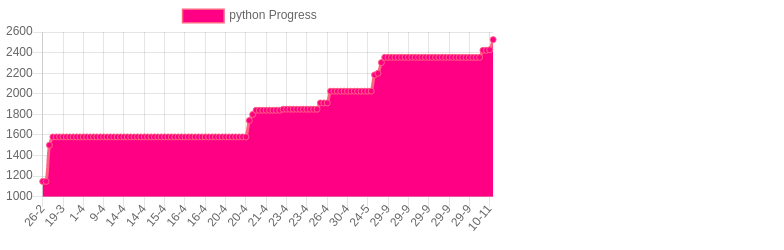
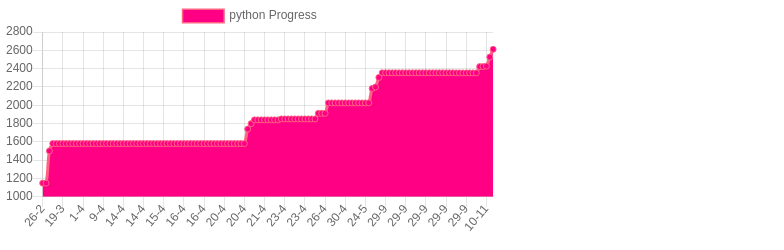
django login example

diff --git a/total.html b/total.html
@@ -9,7 +9,7 @@
         <script src="https://cdn.jsdelivr.net/npm/chart.js@2.8.0"></script>
         <script>
           var ctx = document.getElementById("total").getContext("2d");
-          const goLabelsDates = ["2021-02-27T01:37:43.112Z","2021-02-27T01:38:01.628Z","2021-03-01T13:41:18.753Z","2021-03-01T14:53:41.991Z","2021-03-01T15:08:00.851Z","2021-03-01T15:09:10.635Z","2021-03-01T15:22:55.385Z","2021-03-03T15:31:41.151Z","2021-03-05T14:02:13.446Z","2021-03-10T14:50:13.297Z","2021-03-11T01:54:03.424Z","2021-03-11T15:32:47.647Z","2021-03-11T16:01:51.191Z","2021-03-12T00:36:04.646Z","2021-03-13T00:14:58.179Z","2021-03-16T05:30:04.043Z","2021-03-17T21:17:52.181Z","2021-03-18T03:42:56.998Z","2021-03-18T03:44:29.834Z","2021-03-18T03:45:35.160Z","2021-03-18T03:45:54.668Z","2021-03-18T03:48:46.007Z","2021-03-18T05:10:54.427Z","2021-03-18T05:44:13.724Z","2021-03-18T05:56:11.032Z","2021-03-18T22:11:28.339Z","2021-03-19T11:28:55.383Z","2021-03-22T13:51:43.977Z","2021-03-23T01:52:09.452Z","2021-03-23T15:45:53.765Z","2021-03-24T01:46:02.104Z","2021-03-30T10:56:50.711Z","2021-04-01T15:03:17.764Z","2021-04-01T23:15:02.096Z","2021-04-07T19:21:55.040Z","2021-04-08T15:21:14.479Z","2021-04-09T23:17:58.037Z","2021-04-09T23:32:26.341Z","2021-04-09T23:34:42.049Z","2021-04-09T23:36:18.092Z","2021-04-10T01:45:40.218Z","2021-04-12T15:41:26.676Z","2021-04-14T02:00:41.039Z","2021-04-14T20:02:44.141Z","2021-04-14T21:14:15.821Z","2021-04-14T22:06:37.573Z","2021-04-14T22:42:14.693Z","2021-04-14T23:10:13.243Z","2021-04-14T23:22:54.824Z","2021-04-14T23:49:37.009Z","2021-04-15T02:28:51.974Z","2021-04-15T14:33:50.618Z","2021-04-15T15:09:11.104Z","2021-04-15T20:35:30.580Z","2021-04-16T00:04:33.158Z","2021-04-16T01:36:06.294Z","2021-04-16T01:53:35.992Z","2021-04-16T02:00:15.474Z","2021-04-16T16:08:40.977Z","2021-04-16T16:27:06.953Z","2021-04-16T16:59:30.526Z","2021-04-16T17:00:53.737Z","2021-04-16T23:14:36.283Z","2021-04-17T00:39:16.890Z","2021-04-17T01:11:09.986Z","2021-04-17T01:32:30.011Z","2021-04-17T01:44:22.446Z","2021-04-17T01:44:33.941Z","2021-04-17T02:35:55.774Z","2021-04-19T15:41:31.091Z","2021-04-20T15:32:32.239Z","2021-04-20T15:33:16.014Z","2021-04-20T15:36:11.438Z","2021-04-20T15:38:44.606Z","2021-04-20T15:41:50.350Z","2021-04-20T15:44:34.448Z","2021-04-20T15:46:49.295Z","2021-04-20T15:47:24.048Z","2021-04-20T15:56:22.046Z","2021-04-20T16:00:02.540Z","2021-04-20T16:01:15.511Z","2021-04-20T23:19:23.938Z","2021-04-21T00:40:54.443Z","2021-04-21T00:47:22.662Z","2021-04-21T02:01:09.006Z","2021-04-21T02:19:22.734Z","2021-04-21T15:53:36.038Z","2021-04-21T16:21:45.704Z","2021-04-21T16:26:32.790Z","2021-04-21T16:40:24.916Z","2021-04-21T16:43:40.235Z","2021-04-21T16:43:59.719Z","2021-04-21T16:44:40.304Z","2021-04-21T16:46:13.191Z","2021-04-21T16:48:41.898Z","2021-04-21T16:49:08.753Z","2021-04-21T16:50:32.397Z","2021-04-21T16:51:58.778Z","2021-04-23T00:49:32.826Z","2021-04-23T15:03:06.320Z","2021-04-23T15:04:13.039Z","2021-04-23T15:05:25.923Z","2021-04-23T15:11:04.285Z","2021-04-23T15:11:38.826Z","2021-04-23T15:12:05.618Z","2021-04-23T15:12:32.508Z","2021-04-23T15:13:17.058Z","2021-04-23T17:08:27.046Z","2021-04-23T18:02:30.357Z","2021-04-23T22:58:36.946Z","2021-04-23T23:00:26.027Z","2021-04-23T23:52:58.438Z","2021-04-24T01:12:51.525Z","2021-04-24T02:01:46.612Z","2021-04-26T12:46:47.336Z","2021-04-26T13:13:50.946Z","2021-04-26T13:16:04.473Z","2021-04-27T00:11:42.582Z","2021-04-30T03:26:37.101Z","2021-04-30T04:33:42.472Z","2021-04-30T05:15:42.646Z","2021-04-30T14:31:10.927Z","2021-05-04T01:51:49.907Z","2021-05-21T00:30:21.777Z","2021-05-24T15:07:09.579Z","2021-05-24T15:08:05.658Z","2021-05-24T15:22:20.903Z","2021-05-24T15:33:34.626Z","2021-05-24T15:46:16.101Z","2021-05-24T15:48:12.171Z","2021-05-24T15:53:54.498Z","2021-05-24T15:56:18.488Z","2021-05-28T22:50:32.914Z","2021-06-02T17:58:30.866Z","2021-07-01T05:04:25.826Z","2021-07-01T05:05:33.079Z","2021-09-03T16:56:54.023Z","2021-09-23T00:10:19.737Z","2021-09-23T00:54:30.987Z","2021-09-25T00:13:33.106Z","2021-09-25T00:56:09.874Z","2021-09-29T20:37:10.460Z","2021-09-29T20:39:45.107Z","2021-09-29T20:45:08.406Z","2021-09-29T20:45:42.995Z","2021-09-29T20:51:54.166Z","2021-09-29T21:04:45.487Z","2021-09-29T21:22:49.580Z","2021-09-29T21:23:34.860Z","2021-09-29T21:24:52.804Z","2021-09-29T21:25:12.938Z","2021-09-29T21:31:41.466Z","2021-09-29T21:32:02.856Z","2021-09-29T21:32:15.096Z","2021-09-29T21:37:01.273Z","2021-09-29T21:39:46.109Z","2021-09-29T21:40:23.862Z","2021-09-29T21:41:38.242Z","2021-09-29T21:45:36.053Z","2021-09-29T21:48:31.229Z","2021-09-29T21:49:46.414Z","2021-09-29T21:50:16.628Z","2021-09-29T21:52:23.035Z","2021-09-29T21:58:46.153Z","2021-09-29T21:59:06.075Z","2021-09-29T22:09:34.545Z","2021-09-29T22:24:59.487Z","2021-09-29T22:39:38.616Z","2021-09-29T23:07:40.178Z","2021-10-01T13:21:48.217Z","2021-10-01T14:11:47.682Z","2021-10-05T00:24:42.303Z","2021-10-05T14:36:34.233Z","2021-10-05T15:30:47.628Z","2021-10-13T14:16:32.194Z","2021-10-14T20:31:14.540Z","2021-10-15T02:04:50.667Z","2021-10-22T22:01:46.214Z","2021-10-26T00:04:54.365Z","2021-10-26T00:05:44.432Z","2021-10-26T13:52:24.065Z","2021-10-26T14:08:20.572Z","2021-11-11T01:24:39.296Z","2021-11-11T02:12:58.681Z",];
+          const goLabelsDates = ["2021-02-27T01:37:43.112Z","2021-02-27T01:38:01.628Z","2021-03-01T13:41:18.753Z","2021-03-01T14:53:41.991Z","2021-03-01T15:08:00.851Z","2021-03-01T15:09:10.635Z","2021-03-01T15:22:55.385Z","2021-03-03T15:31:41.151Z","2021-03-05T14:02:13.446Z","2021-03-10T14:50:13.297Z","2021-03-11T01:54:03.424Z","2021-03-11T15:32:47.647Z","2021-03-11T16:01:51.191Z","2021-03-12T00:36:04.646Z","2021-03-13T00:14:58.179Z","2021-03-16T05:30:04.043Z","2021-03-17T21:17:52.181Z","2021-03-18T03:42:56.998Z","2021-03-18T03:44:29.834Z","2021-03-18T03:45:35.160Z","2021-03-18T03:45:54.668Z","2021-03-18T03:48:46.007Z","2021-03-18T05:10:54.427Z","2021-03-18T05:44:13.724Z","2021-03-18T05:56:11.032Z","2021-03-18T22:11:28.339Z","2021-03-19T11:28:55.383Z","2021-03-22T13:51:43.977Z","2021-03-23T01:52:09.452Z","2021-03-23T15:45:53.765Z","2021-03-24T01:46:02.104Z","2021-03-30T10:56:50.711Z","2021-04-01T15:03:17.764Z","2021-04-01T23:15:02.096Z","2021-04-07T19:21:55.040Z","2021-04-08T15:21:14.479Z","2021-04-09T23:17:58.037Z","2021-04-09T23:32:26.341Z","2021-04-09T23:34:42.049Z","2021-04-09T23:36:18.092Z","2021-04-10T01:45:40.218Z","2021-04-12T15:41:26.676Z","2021-04-14T02:00:41.039Z","2021-04-14T20:02:44.141Z","2021-04-14T21:14:15.821Z","2021-04-14T22:06:37.573Z","2021-04-14T22:42:14.693Z","2021-04-14T23:10:13.243Z","2021-04-14T23:22:54.824Z","2021-04-14T23:49:37.009Z","2021-04-15T02:28:51.974Z","2021-04-15T14:33:50.618Z","2021-04-15T15:09:11.104Z","2021-04-15T20:35:30.580Z","2021-04-16T00:04:33.158Z","2021-04-16T01:36:06.294Z","2021-04-16T01:53:35.992Z","2021-04-16T02:00:15.474Z","2021-04-16T16:08:40.977Z","2021-04-16T16:27:06.953Z","2021-04-16T16:59:30.526Z","2021-04-16T17:00:53.737Z","2021-04-16T23:14:36.283Z","2021-04-17T00:39:16.890Z","2021-04-17T01:11:09.986Z","2021-04-17T01:32:30.011Z","2021-04-17T01:44:22.446Z","2021-04-17T01:44:33.941Z","2021-04-17T02:35:55.774Z","2021-04-19T15:41:31.091Z","2021-04-20T15:32:32.239Z","2021-04-20T15:33:16.014Z","2021-04-20T15:36:11.438Z","2021-04-20T15:38:44.606Z","2021-04-20T15:41:50.350Z","2021-04-20T15:44:34.448Z","2021-04-20T15:46:49.295Z","2021-04-20T15:47:24.048Z","2021-04-20T15:56:22.046Z","2021-04-20T16:00:02.540Z","2021-04-20T16:01:15.511Z","2021-04-20T23:19:23.938Z","2021-04-21T00:40:54.443Z","2021-04-21T00:47:22.662Z","2021-04-21T02:01:09.006Z","2021-04-21T02:19:22.734Z","2021-04-21T15:53:36.038Z","2021-04-21T16:21:45.704Z","2021-04-21T16:26:32.790Z","2021-04-21T16:40:24.916Z","2021-04-21T16:43:40.235Z","2021-04-21T16:43:59.719Z","2021-04-21T16:44:40.304Z","2021-04-21T16:46:13.191Z","2021-04-21T16:48:41.898Z","2021-04-21T16:49:08.753Z","2021-04-21T16:50:32.397Z","2021-04-21T16:51:58.778Z","2021-04-23T00:49:32.826Z","2021-04-23T15:03:06.320Z","2021-04-23T15:04:13.039Z","2021-04-23T15:05:25.923Z","2021-04-23T15:11:04.285Z","2021-04-23T15:11:38.826Z","2021-04-23T15:12:05.618Z","2021-04-23T15:12:32.508Z","2021-04-23T15:13:17.058Z","2021-04-23T17:08:27.046Z","2021-04-23T18:02:30.357Z","2021-04-23T22:58:36.946Z","2021-04-23T23:00:26.027Z","2021-04-23T23:52:58.438Z","2021-04-24T01:12:51.525Z","2021-04-24T02:01:46.612Z","2021-04-26T12:46:47.336Z","2021-04-26T13:13:50.946Z","2021-04-26T13:16:04.473Z","2021-04-27T00:11:42.582Z","2021-04-30T03:26:37.101Z","2021-04-30T04:33:42.472Z","2021-04-30T05:15:42.646Z","2021-04-30T14:31:10.927Z","2021-05-04T01:51:49.907Z","2021-05-21T00:30:21.777Z","2021-05-24T15:07:09.579Z","2021-05-24T15:08:05.658Z","2021-05-24T15:22:20.903Z","2021-05-24T15:33:34.626Z","2021-05-24T15:46:16.101Z","2021-05-24T15:48:12.171Z","2021-05-24T15:53:54.498Z","2021-05-24T15:56:18.488Z","2021-05-28T22:50:32.914Z","2021-06-02T17:58:30.866Z","2021-07-01T05:04:25.826Z","2021-07-01T05:05:33.079Z","2021-09-03T16:56:54.023Z","2021-09-23T00:10:19.737Z","2021-09-23T00:54:30.987Z","2021-09-25T00:13:33.106Z","2021-09-25T00:56:09.874Z","2021-09-29T20:37:10.460Z","2021-09-29T20:39:45.107Z","2021-09-29T20:45:08.406Z","2021-09-29T20:45:42.995Z","2021-09-29T20:51:54.166Z","2021-09-29T21:04:45.487Z","2021-09-29T21:22:49.580Z","2021-09-29T21:23:34.860Z","2021-09-29T21:24:52.804Z","2021-09-29T21:25:12.938Z","2021-09-29T21:31:41.466Z","2021-09-29T21:32:02.856Z","2021-09-29T21:32:15.096Z","2021-09-29T21:37:01.273Z","2021-09-29T21:39:46.109Z","2021-09-29T21:40:23.862Z","2021-09-29T21:41:38.242Z","2021-09-29T21:45:36.053Z","2021-09-29T21:48:31.229Z","2021-09-29T21:49:46.414Z","2021-09-29T21:50:16.628Z","2021-09-29T21:52:23.035Z","2021-09-29T21:58:46.153Z","2021-09-29T21:59:06.075Z","2021-09-29T22:09:34.545Z","2021-09-29T22:24:59.487Z","2021-09-29T22:39:38.616Z","2021-09-29T23:07:40.178Z","2021-10-01T13:21:48.217Z","2021-10-01T14:11:47.682Z","2021-10-05T00:24:42.303Z","2021-10-05T14:36:34.233Z","2021-10-05T15:30:47.628Z","2021-10-13T14:16:32.194Z","2021-10-14T20:31:14.540Z","2021-10-15T02:04:50.667Z","2021-10-22T22:01:46.214Z","2021-10-26T00:04:54.365Z","2021-10-26T00:05:44.432Z","2021-10-26T13:52:24.065Z","2021-10-26T14:08:20.572Z","2021-11-11T01:24:39.296Z","2021-11-11T02:12:58.681Z","2021-11-11T03:09:01.800Z",];
           var chart = new Chart(ctx, {
             type: 'line',
             data: {
@@ -18,7 +18,7 @@
                 label: 'total Progress',
                 backgroundColor: 'rgb(255, 0, 132)',
                 borderColor: 'rgb(255, 99, 132)',
-                data: [7975,7975,8307,8526,8526,8527,8573,9171,9358,9751,9908,10232,10231,10643,10911,11353,12576,12666,0,0,169,12835,12906,12953,12953,13141,13254,13354,13406,13417,13568,13708,13845,14886,15140,15267,15766,15777,15777,15777,16211,16345,17062,17247,17324,17464,17697,17849,17916,18002,18002,18202,18292,18515,18590,18744,18837,18876,19030,19086,19114,19143,19378,19465,19607,19714,19782,19782,19791,20220,20257,20257,20257,20257,20257,20257,20257,20257,20257,20257,20257,21179,21238,21279,21319,21319,21430,21506,21543,65995,0,44452,44452,44452,20233,20233,1629,23172,23326,23693,23693,23693,23693,23693,23693,23693,23693,23693,23693,23693,23693,23905,24023,24262,24275,24376,24376,24452,25078,25182,25238,25232,25233,25334,23696,25427,25453,25466,25491,11565,5707,5707,4421,4535,4535,3678,3678,3678,5861,5318,5422,5473,12667,12667,12667,12667,12667,12667,12667,12667,12667,12667,12667,12667,12667,12667,12667,12667,12667,12667,12658,12658,12657,12657,12657,12657,12683,12736,12779,12888,2619,2775,9772,9922,10674,1795,1824,2002,2000,422,468,543,2427,2526,]
+                data: [7975,7975,8307,8526,8526,8527,8573,9171,9358,9751,9908,10232,10231,10643,10911,11353,12576,12666,0,0,169,12835,12906,12953,12953,13141,13254,13354,13406,13417,13568,13708,13845,14886,15140,15267,15766,15777,15777,15777,16211,16345,17062,17247,17324,17464,17697,17849,17916,18002,18002,18202,18292,18515,18590,18744,18837,18876,19030,19086,19114,19143,19378,19465,19607,19714,19782,19782,19791,20220,20257,20257,20257,20257,20257,20257,20257,20257,20257,20257,20257,21179,21238,21279,21319,21319,21430,21506,21543,65995,0,44452,44452,44452,20233,20233,1629,23172,23326,23693,23693,23693,23693,23693,23693,23693,23693,23693,23693,23693,23693,23905,24023,24262,24275,24376,24376,24452,25078,25182,25238,25232,25233,25334,23696,25427,25453,25466,25491,11565,5707,5707,4421,4535,4535,3678,3678,3678,5861,5318,5422,5473,12667,12667,12667,12667,12667,12667,12667,12667,12667,12667,12667,12667,12667,12667,12667,12667,12667,12667,12658,12658,12657,12657,12657,12657,12683,12736,12779,12888,2619,2775,9772,9922,10674,1795,1824,2002,2000,422,468,543,2427,2526,2611,]
               }]
             },
           });

diff --git a/python.html b/python.html
@@ -9,7 +9,7 @@
         <script src="https://cdn.jsdelivr.net/npm/chart.js@2.8.0"></script>
         <script>
           var ctx = document.getElementById("python").getContext("2d");
-          const goLabelsDates = ["2021-02-27T01:37:43.111Z","2021-02-27T01:38:01.627Z","2021-03-03T15:31:41.151Z","2021-03-18T05:44:13.724Z","2021-03-18T05:56:11.032Z","2021-03-18T22:11:28.339Z","2021-03-19T11:28:55.382Z","2021-03-22T13:51:43.976Z","2021-03-23T01:52:09.451Z","2021-03-23T15:45:53.764Z","2021-03-24T01:46:02.103Z","2021-03-30T10:56:50.710Z","2021-04-01T15:03:17.763Z","2021-04-01T23:15:02.095Z","2021-04-07T19:21:55.039Z","2021-04-08T15:21:14.478Z","2021-04-09T23:17:58.036Z","2021-04-09T23:32:26.340Z","2021-04-09T23:34:42.048Z","2021-04-09T23:36:18.091Z","2021-04-10T01:45:40.217Z","2021-04-12T15:41:26.675Z","2021-04-14T02:00:41.039Z","2021-04-14T20:02:44.140Z","2021-04-14T21:14:15.820Z","2021-04-14T22:06:37.573Z","2021-04-14T22:42:14.693Z","2021-04-14T23:10:13.242Z","2021-04-14T23:22:54.823Z","2021-04-14T23:49:37.009Z","2021-04-15T02:28:51.973Z","2021-04-15T14:33:50.618Z","2021-04-15T15:09:11.102Z","2021-04-15T20:35:30.579Z","2021-04-16T00:04:33.157Z","2021-04-16T01:36:06.293Z","2021-04-16T01:53:35.991Z","2021-04-16T02:00:15.473Z","2021-04-16T16:08:40.976Z","2021-04-16T16:27:06.952Z","2021-04-16T16:59:30.524Z","2021-04-16T17:00:53.733Z","2021-04-16T23:14:36.282Z","2021-04-17T00:39:16.888Z","2021-04-17T01:11:09.985Z","2021-04-17T01:32:30.008Z","2021-04-17T01:44:22.444Z","2021-04-17T01:44:33.940Z","2021-04-17T02:35:55.773Z","2021-04-19T15:41:31.090Z","2021-04-20T15:32:32.238Z","2021-04-20T15:33:16.013Z","2021-04-20T15:36:11.438Z","2021-04-20T15:38:44.605Z","2021-04-20T15:41:50.349Z","2021-04-20T15:44:34.447Z","2021-04-20T15:46:49.294Z","2021-04-20T15:47:24.047Z","2021-04-20T15:56:22.045Z","2021-04-20T16:00:02.539Z","2021-04-20T16:01:15.511Z","2021-04-20T23:19:23.937Z","2021-04-21T00:40:54.442Z","2021-04-21T00:47:22.661Z","2021-04-21T02:01:09.005Z","2021-04-21T02:19:22.733Z","2021-04-21T15:53:36.037Z","2021-04-21T16:21:45.703Z","2021-04-21T16:26:32.789Z","2021-04-21T16:40:24.916Z","2021-04-21T16:51:58.777Z","2021-04-23T00:49:32.825Z","2021-04-23T15:03:06.327Z","2021-04-23T15:04:13.044Z","2021-04-23T15:05:25.923Z","2021-04-23T15:13:17.062Z","2021-04-23T17:08:27.045Z","2021-04-23T18:02:30.355Z","2021-04-23T22:58:36.945Z","2021-04-23T23:00:26.027Z","2021-04-23T23:52:58.438Z","2021-04-24T01:12:51.524Z","2021-04-24T02:01:46.611Z","2021-04-26T12:46:47.335Z","2021-04-26T13:13:50.945Z","2021-04-26T13:16:04.472Z","2021-04-27T00:11:42.580Z","2021-04-30T03:26:37.099Z","2021-04-30T04:33:42.472Z","2021-04-30T05:15:42.645Z","2021-04-30T14:31:10.926Z","2021-05-04T01:51:49.906Z","2021-05-21T00:30:21.772Z","2021-05-24T15:07:09.573Z","2021-05-24T15:08:05.657Z","2021-05-24T15:22:20.902Z","2021-05-24T15:33:34.625Z","2021-05-24T15:46:16.101Z","2021-09-23T00:54:30.986Z","2021-09-25T00:13:33.105Z","2021-09-25T00:56:09.873Z","2021-09-29T20:37:10.457Z","2021-09-29T20:39:45.106Z","2021-09-29T20:45:08.405Z","2021-09-29T20:45:42.993Z","2021-09-29T20:51:54.165Z","2021-09-29T21:04:45.486Z","2021-09-29T21:22:49.579Z","2021-09-29T21:23:34.859Z","2021-09-29T21:24:52.803Z","2021-09-29T21:25:12.937Z","2021-09-29T21:31:41.464Z","2021-09-29T21:32:02.854Z","2021-09-29T21:32:15.094Z","2021-09-29T21:36:24.778Z","2021-09-29T21:37:01.272Z","2021-09-29T21:39:46.106Z","2021-09-29T21:40:23.860Z","2021-09-29T21:41:38.230Z","2021-09-29T21:45:36.050Z","2021-09-29T21:48:31.221Z","2021-09-29T21:49:46.411Z","2021-09-29T21:50:16.624Z","2021-09-29T21:52:23.032Z","2021-09-29T21:58:46.150Z","2021-09-29T21:59:06.072Z","2021-09-29T22:09:34.542Z","2021-09-29T22:24:59.484Z","2021-09-29T22:39:38.613Z","2021-09-29T23:07:40.175Z","2021-10-01T13:21:48.213Z","2021-10-01T14:11:47.679Z","2021-11-11T01:24:39.291Z","2021-11-11T02:12:58.677Z",];
+          const goLabelsDates = ["2021-02-27T01:37:43.111Z","2021-02-27T01:38:01.627Z","2021-03-03T15:31:41.151Z","2021-03-18T05:44:13.724Z","2021-03-18T05:56:11.032Z","2021-03-18T22:11:28.339Z","2021-03-19T11:28:55.382Z","2021-03-22T13:51:43.976Z","2021-03-23T01:52:09.451Z","2021-03-23T15:45:53.764Z","2021-03-24T01:46:02.103Z","2021-03-30T10:56:50.710Z","2021-04-01T15:03:17.763Z","2021-04-01T23:15:02.095Z","2021-04-07T19:21:55.039Z","2021-04-08T15:21:14.478Z","2021-04-09T23:17:58.036Z","2021-04-09T23:32:26.340Z","2021-04-09T23:34:42.048Z","2021-04-09T23:36:18.091Z","2021-04-10T01:45:40.217Z","2021-04-12T15:41:26.675Z","2021-04-14T02:00:41.039Z","2021-04-14T20:02:44.140Z","2021-04-14T21:14:15.820Z","2021-04-14T22:06:37.573Z","2021-04-14T22:42:14.693Z","2021-04-14T23:10:13.242Z","2021-04-14T23:22:54.823Z","2021-04-14T23:49:37.009Z","2021-04-15T02:28:51.973Z","2021-04-15T14:33:50.618Z","2021-04-15T15:09:11.102Z","2021-04-15T20:35:30.579Z","2021-04-16T00:04:33.157Z","2021-04-16T01:36:06.293Z","2021-04-16T01:53:35.991Z","2021-04-16T02:00:15.473Z","2021-04-16T16:08:40.976Z","2021-04-16T16:27:06.952Z","2021-04-16T16:59:30.524Z","2021-04-16T17:00:53.733Z","2021-04-16T23:14:36.282Z","2021-04-17T00:39:16.888Z","2021-04-17T01:11:09.985Z","2021-04-17T01:32:30.008Z","2021-04-17T01:44:22.444Z","2021-04-17T01:44:33.940Z","2021-04-17T02:35:55.773Z","2021-04-19T15:41:31.090Z","2021-04-20T15:32:32.238Z","2021-04-20T15:33:16.013Z","2021-04-20T15:36:11.438Z","2021-04-20T15:38:44.605Z","2021-04-20T15:41:50.349Z","2021-04-20T15:44:34.447Z","2021-04-20T15:46:49.294Z","2021-04-20T15:47:24.047Z","2021-04-20T15:56:22.045Z","2021-04-20T16:00:02.539Z","2021-04-20T16:01:15.511Z","2021-04-20T23:19:23.937Z","2021-04-21T00:40:54.442Z","2021-04-21T00:47:22.661Z","2021-04-21T02:01:09.005Z","2021-04-21T02:19:22.733Z","2021-04-21T15:53:36.037Z","2021-04-21T16:21:45.703Z","2021-04-21T16:26:32.789Z","2021-04-21T16:40:24.916Z","2021-04-21T16:51:58.777Z","2021-04-23T00:49:32.825Z","2021-04-23T15:03:06.327Z","2021-04-23T15:04:13.044Z","2021-04-23T15:05:25.923Z","2021-04-23T15:13:17.062Z","2021-04-23T17:08:27.045Z","2021-04-23T18:02:30.355Z","2021-04-23T22:58:36.945Z","2021-04-23T23:00:26.027Z","2021-04-23T23:52:58.438Z","2021-04-24T01:12:51.524Z","2021-04-24T02:01:46.611Z","2021-04-26T12:46:47.335Z","2021-04-26T13:13:50.945Z","2021-04-26T13:16:04.472Z","2021-04-27T00:11:42.580Z","2021-04-30T03:26:37.099Z","2021-04-30T04:33:42.472Z","2021-04-30T05:15:42.645Z","2021-04-30T14:31:10.926Z","2021-05-04T01:51:49.906Z","2021-05-21T00:30:21.772Z","2021-05-24T15:07:09.573Z","2021-05-24T15:08:05.657Z","2021-05-24T15:22:20.902Z","2021-05-24T15:33:34.625Z","2021-05-24T15:46:16.101Z","2021-09-23T00:54:30.986Z","2021-09-25T00:13:33.105Z","2021-09-25T00:56:09.873Z","2021-09-29T20:37:10.457Z","2021-09-29T20:39:45.106Z","2021-09-29T20:45:08.405Z","2021-09-29T20:45:42.993Z","2021-09-29T20:51:54.165Z","2021-09-29T21:04:45.486Z","2021-09-29T21:22:49.579Z","2021-09-29T21:23:34.859Z","2021-09-29T21:24:52.803Z","2021-09-29T21:25:12.937Z","2021-09-29T21:31:41.464Z","2021-09-29T21:32:02.854Z","2021-09-29T21:32:15.094Z","2021-09-29T21:36:24.778Z","2021-09-29T21:37:01.272Z","2021-09-29T21:39:46.106Z","2021-09-29T21:40:23.860Z","2021-09-29T21:41:38.230Z","2021-09-29T21:45:36.050Z","2021-09-29T21:48:31.221Z","2021-09-29T21:49:46.411Z","2021-09-29T21:50:16.624Z","2021-09-29T21:52:23.032Z","2021-09-29T21:58:46.150Z","2021-09-29T21:59:06.072Z","2021-09-29T22:09:34.542Z","2021-09-29T22:24:59.484Z","2021-09-29T22:39:38.613Z","2021-09-29T23:07:40.175Z","2021-10-01T13:21:48.213Z","2021-10-01T14:11:47.679Z","2021-11-11T01:24:39.291Z","2021-11-11T02:12:58.677Z","2021-11-11T03:09:01.795Z",];
           var chart = new Chart(ctx, {
             type: 'line',
             data: {
@@ -18,7 +18,7 @@
                 label: 'python Progress',
                 backgroundColor: 'rgb(255, 0, 132)',
                 borderColor: 'rgb(255, 99, 132)',
-                data: [1149,1149,1501,1581,1581,1581,1581,1581,1581,1581,1581,1581,1581,1581,1581,1581,1581,1581,1581,1581,1581,1581,1581,1581,1581,1581,1581,1581,1581,1581,1581,1581,1581,1581,1581,1581,1581,1581,1581,1581,1581,1581,1581,1581,1581,1581,1581,1581,1581,1581,1581,1581,1581,1581,1581,1581,1581,1581,1581,1581,1581,1740,1799,1840,1840,1840,1840,1840,1840,1840,1840,1850,1850,1850,1850,1850,1850,1850,1850,1850,1850,1850,1911,1911,1911,2025,2025,2025,2025,2025,2025,2025,2025,2025,2025,2025,2025,2026,2183,2199,2303,2354,2354,2354,2354,2354,2354,2354,2354,2354,2354,2354,2354,2354,2354,2354,2354,2354,2354,2354,2354,2354,2354,2353,2353,2353,2353,2353,2353,2353,2422,2422,2427,2526,]
+                data: [1149,1149,1501,1581,1581,1581,1581,1581,1581,1581,1581,1581,1581,1581,1581,1581,1581,1581,1581,1581,1581,1581,1581,1581,1581,1581,1581,1581,1581,1581,1581,1581,1581,1581,1581,1581,1581,1581,1581,1581,1581,1581,1581,1581,1581,1581,1581,1581,1581,1581,1581,1581,1581,1581,1581,1581,1581,1581,1581,1581,1581,1740,1799,1840,1840,1840,1840,1840,1840,1840,1840,1850,1850,1850,1850,1850,1850,1850,1850,1850,1850,1850,1911,1911,1911,2025,2025,2025,2025,2025,2025,2025,2025,2025,2025,2025,2025,2026,2183,2199,2303,2354,2354,2354,2354,2354,2354,2354,2354,2354,2354,2354,2354,2354,2354,2354,2354,2354,2354,2354,2354,2354,2354,2353,2353,2353,2353,2353,2353,2353,2422,2422,2427,2526,2611,]
               }]
             },
           });

diff --git a/Readme.md b/Readme.md
@@ -1,11 +1,11 @@
 # All count
 |Language|Goal|Lines%|%|%|%|Subjects|
 |----------|-------|-------|--------|--------|--------|--------|
-|python|10000|2526|25|![python](https://raw.githubusercontent.com/kapit4n/l-10000-dev/master/python.png)|collections, |algorithms, authentication jwt, aws s3 boto3, django pdf, django tips, g cloud storage, login flask, unit tests, yield|
-|TOTAL|2526|25.260%|
+|python|10000|2611|26|![python](https://raw.githubusercontent.com/kapit4n/l-10000-dev/master/python.png)|collections, |algorithms, authentication jwt, aws s3 boto3, django pdf, django tips, g cloud storage, login django, login flask, unit tests, yield|
+|TOTAL|2611|26.110%|
 10/02(0)
 
-10/03(2526)
+10/03(2611)
 
 
   # run it
@@ -28,4 +28,4 @@
   * Angular, React, Vue
   * Spring, Play
   * Scala, Java
-  , 2021-11-11T02:12:58.681Z
+  , 2021-11-11T03:09:01.800Z
